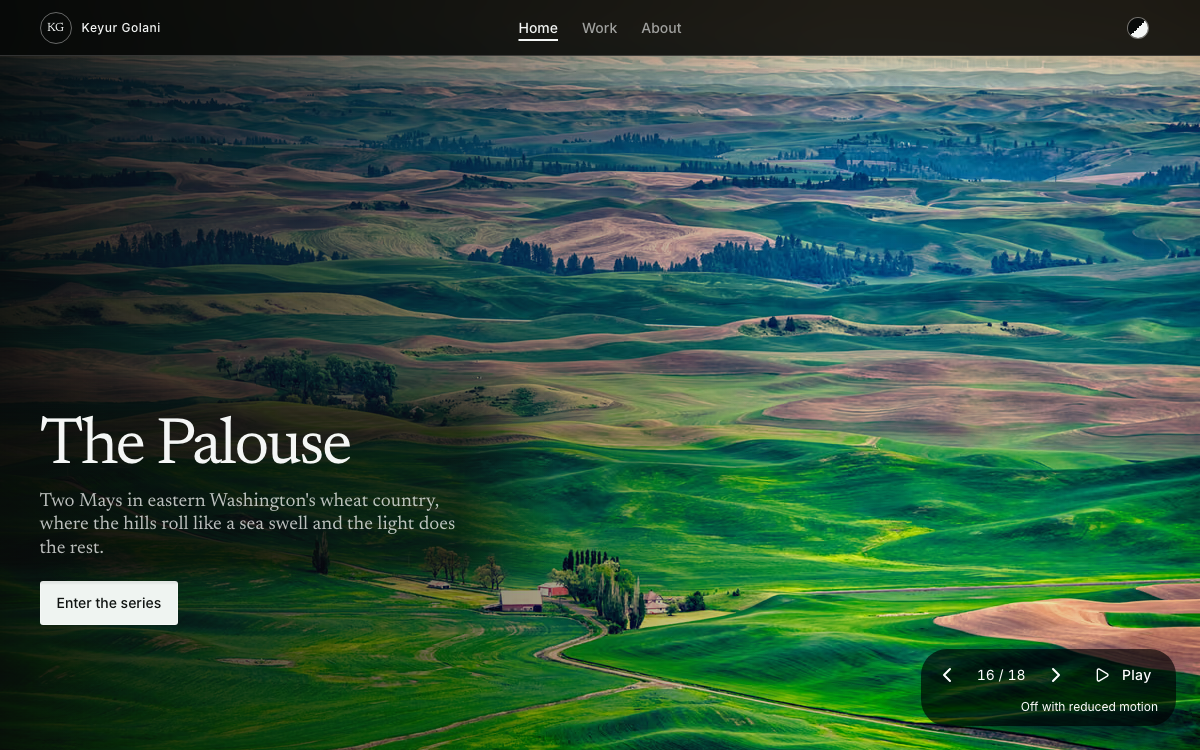
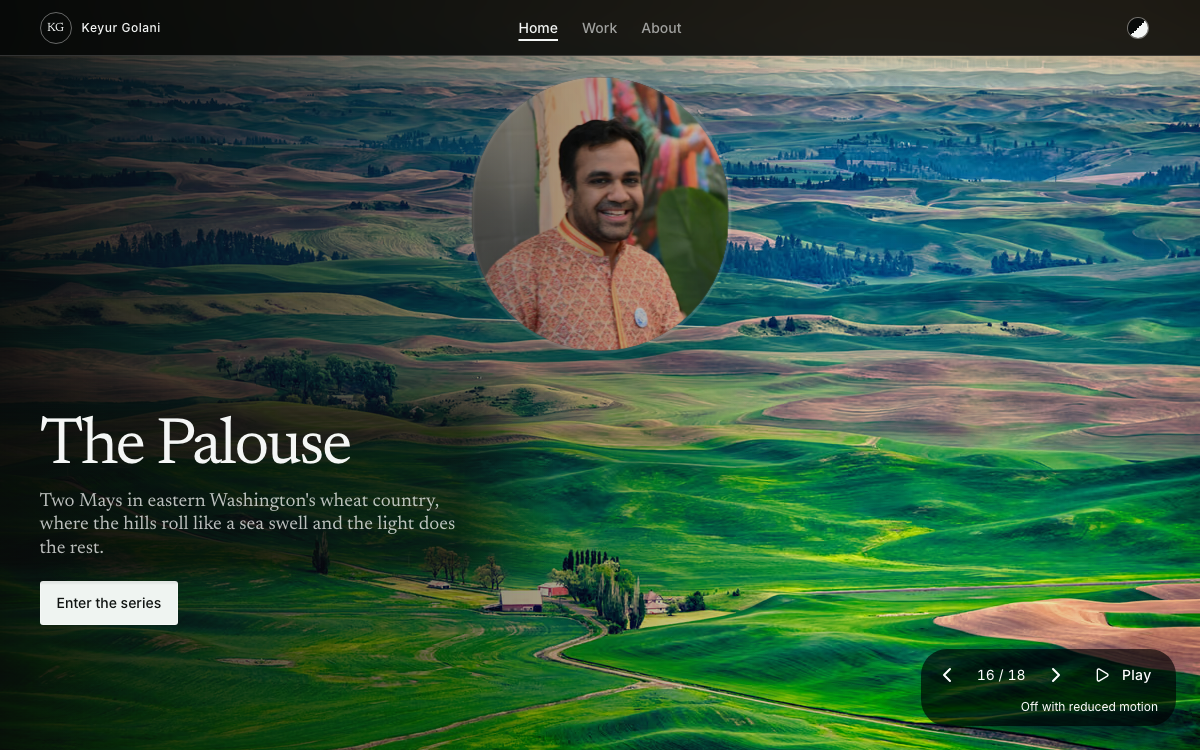
docs(showcase): retake Home and About from production, with the owner's portrait
The owner's rule: the showcase comes from production with his real portfolio and his own portrait, retaken after each production deploy. Home's four shots now show its portrait badge, and About and its four-theme strip show his portrait instead of the stand-in. Work, the series, the Viewer and their strips were retaken too and came out pixel-identical, so they're unchanged. The footer says where and when the shots were taken.

Changed region(s): [[0.37, 0.092, 0.6167, 0.4907]]

diff --git a/SHOWCASE.md b/SHOWCASE.md
@@ -113,4 +113,4 @@ About shows the portrait and the name, a short note, and links to my photography
 
 ---
 
-_Screenshots from the live site at v1.3.0, whose visitor pages are unchanged through v1.4.0, in catalog mode, revision 1, in Chromium at 1200 px wide with reduced motion, which is why Home's slideshow shows Play. The series shown is The Palouse. About's use a stand-in portrait, and Home's are taken without its portrait badge. See the [README](README.md) for setup and configuration._
+_Screenshots from production on 2026-11-03, serving v1.4.0 in catalog mode, revision 1, in Chromium at 1200 px wide with reduced motion, which is why Home's slideshow shows Play. The series shown is The Palouse. About and Home's portrait badge show my own portrait. See the [README](README.md) for setup and configuration._
